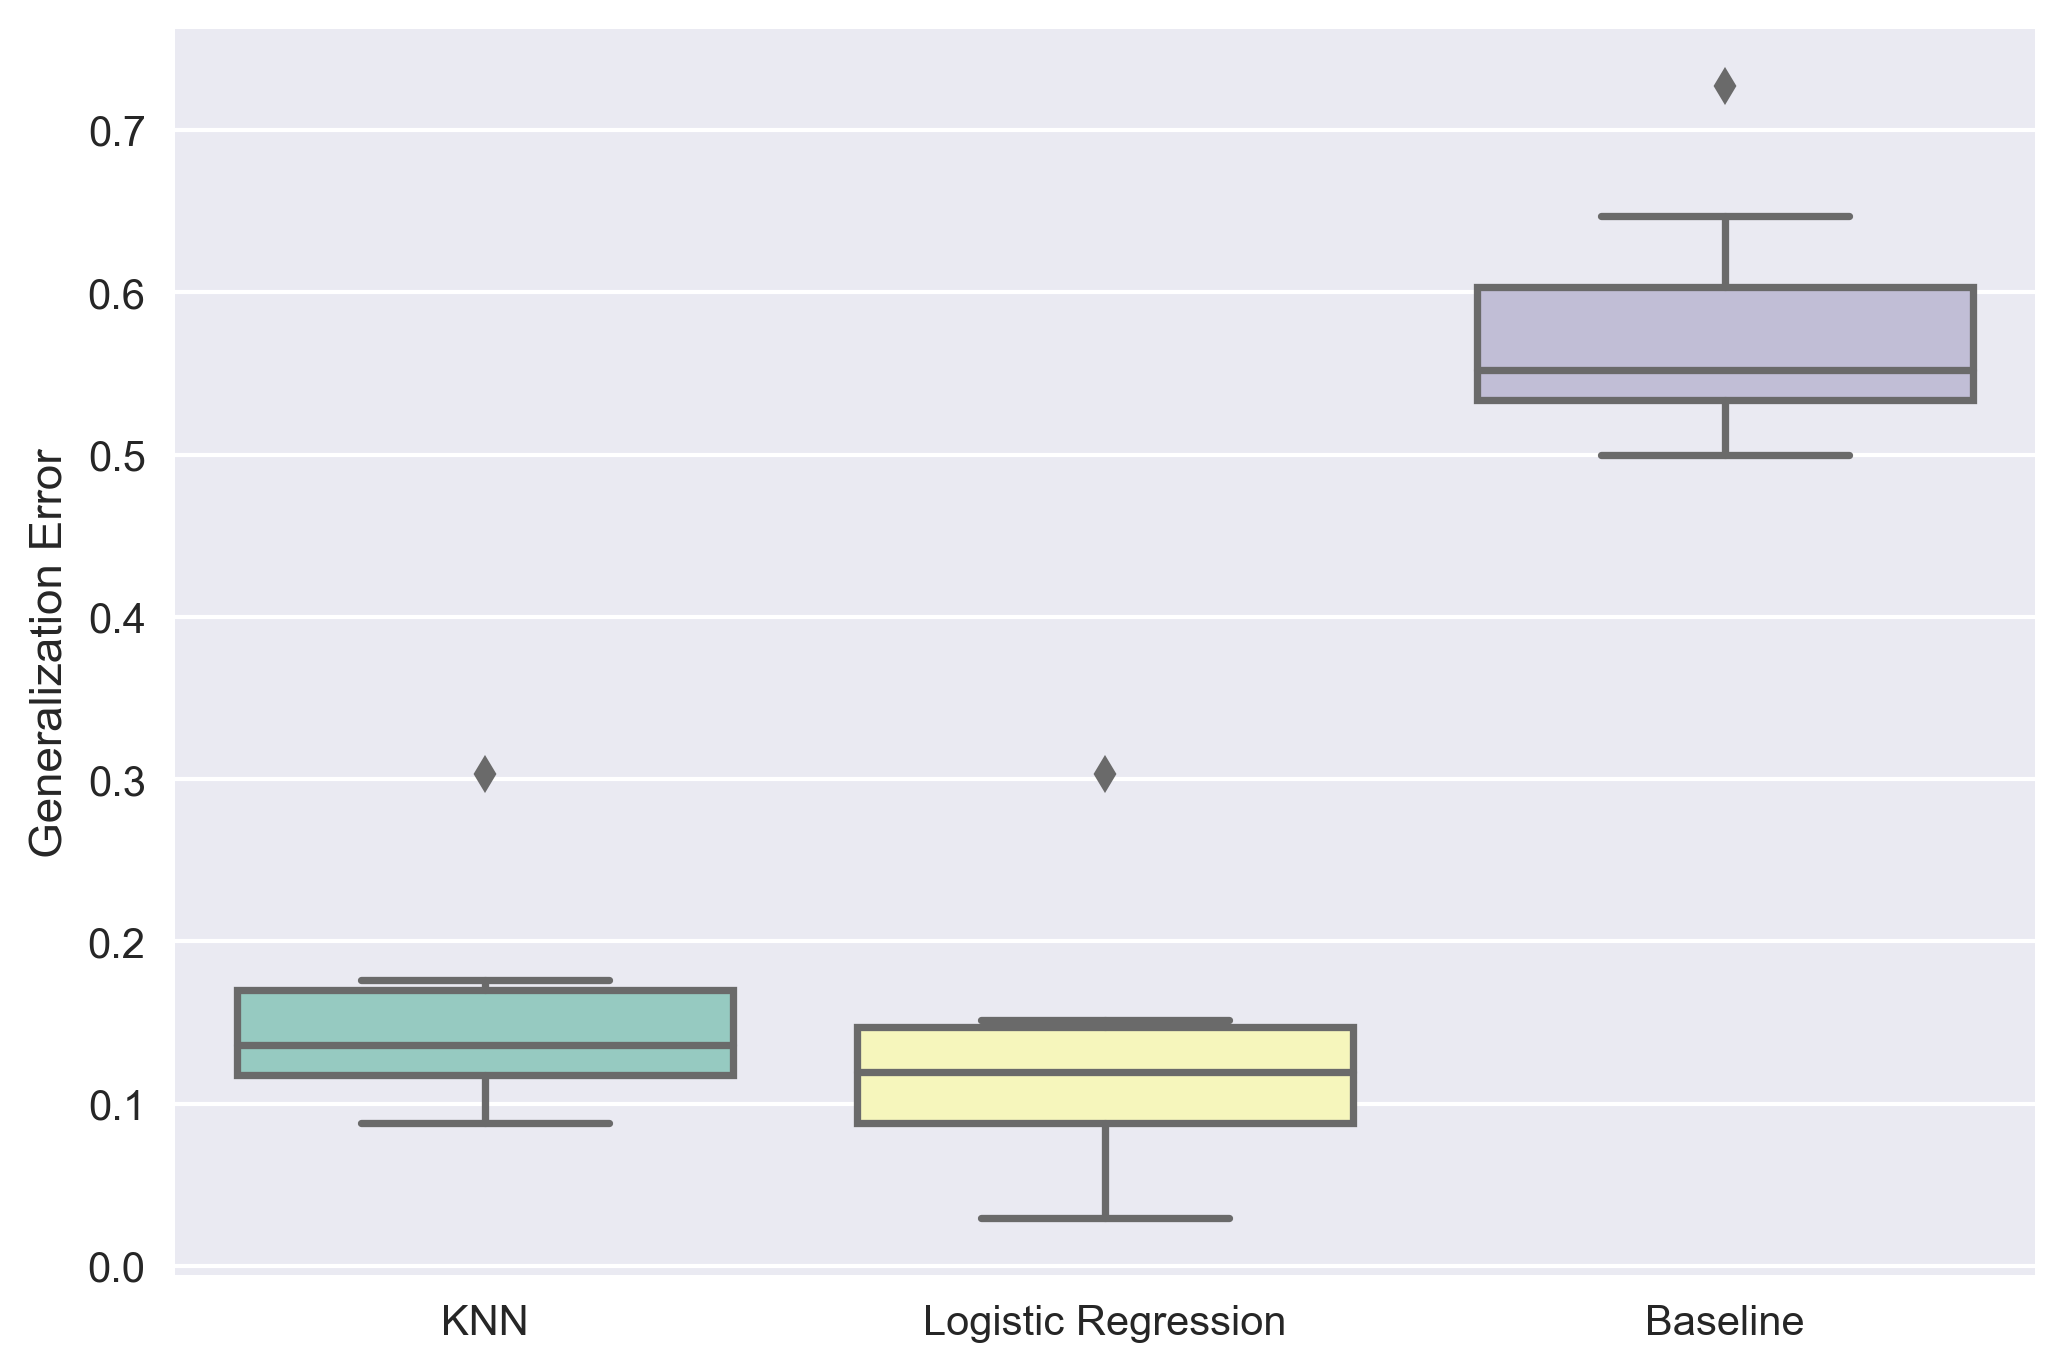
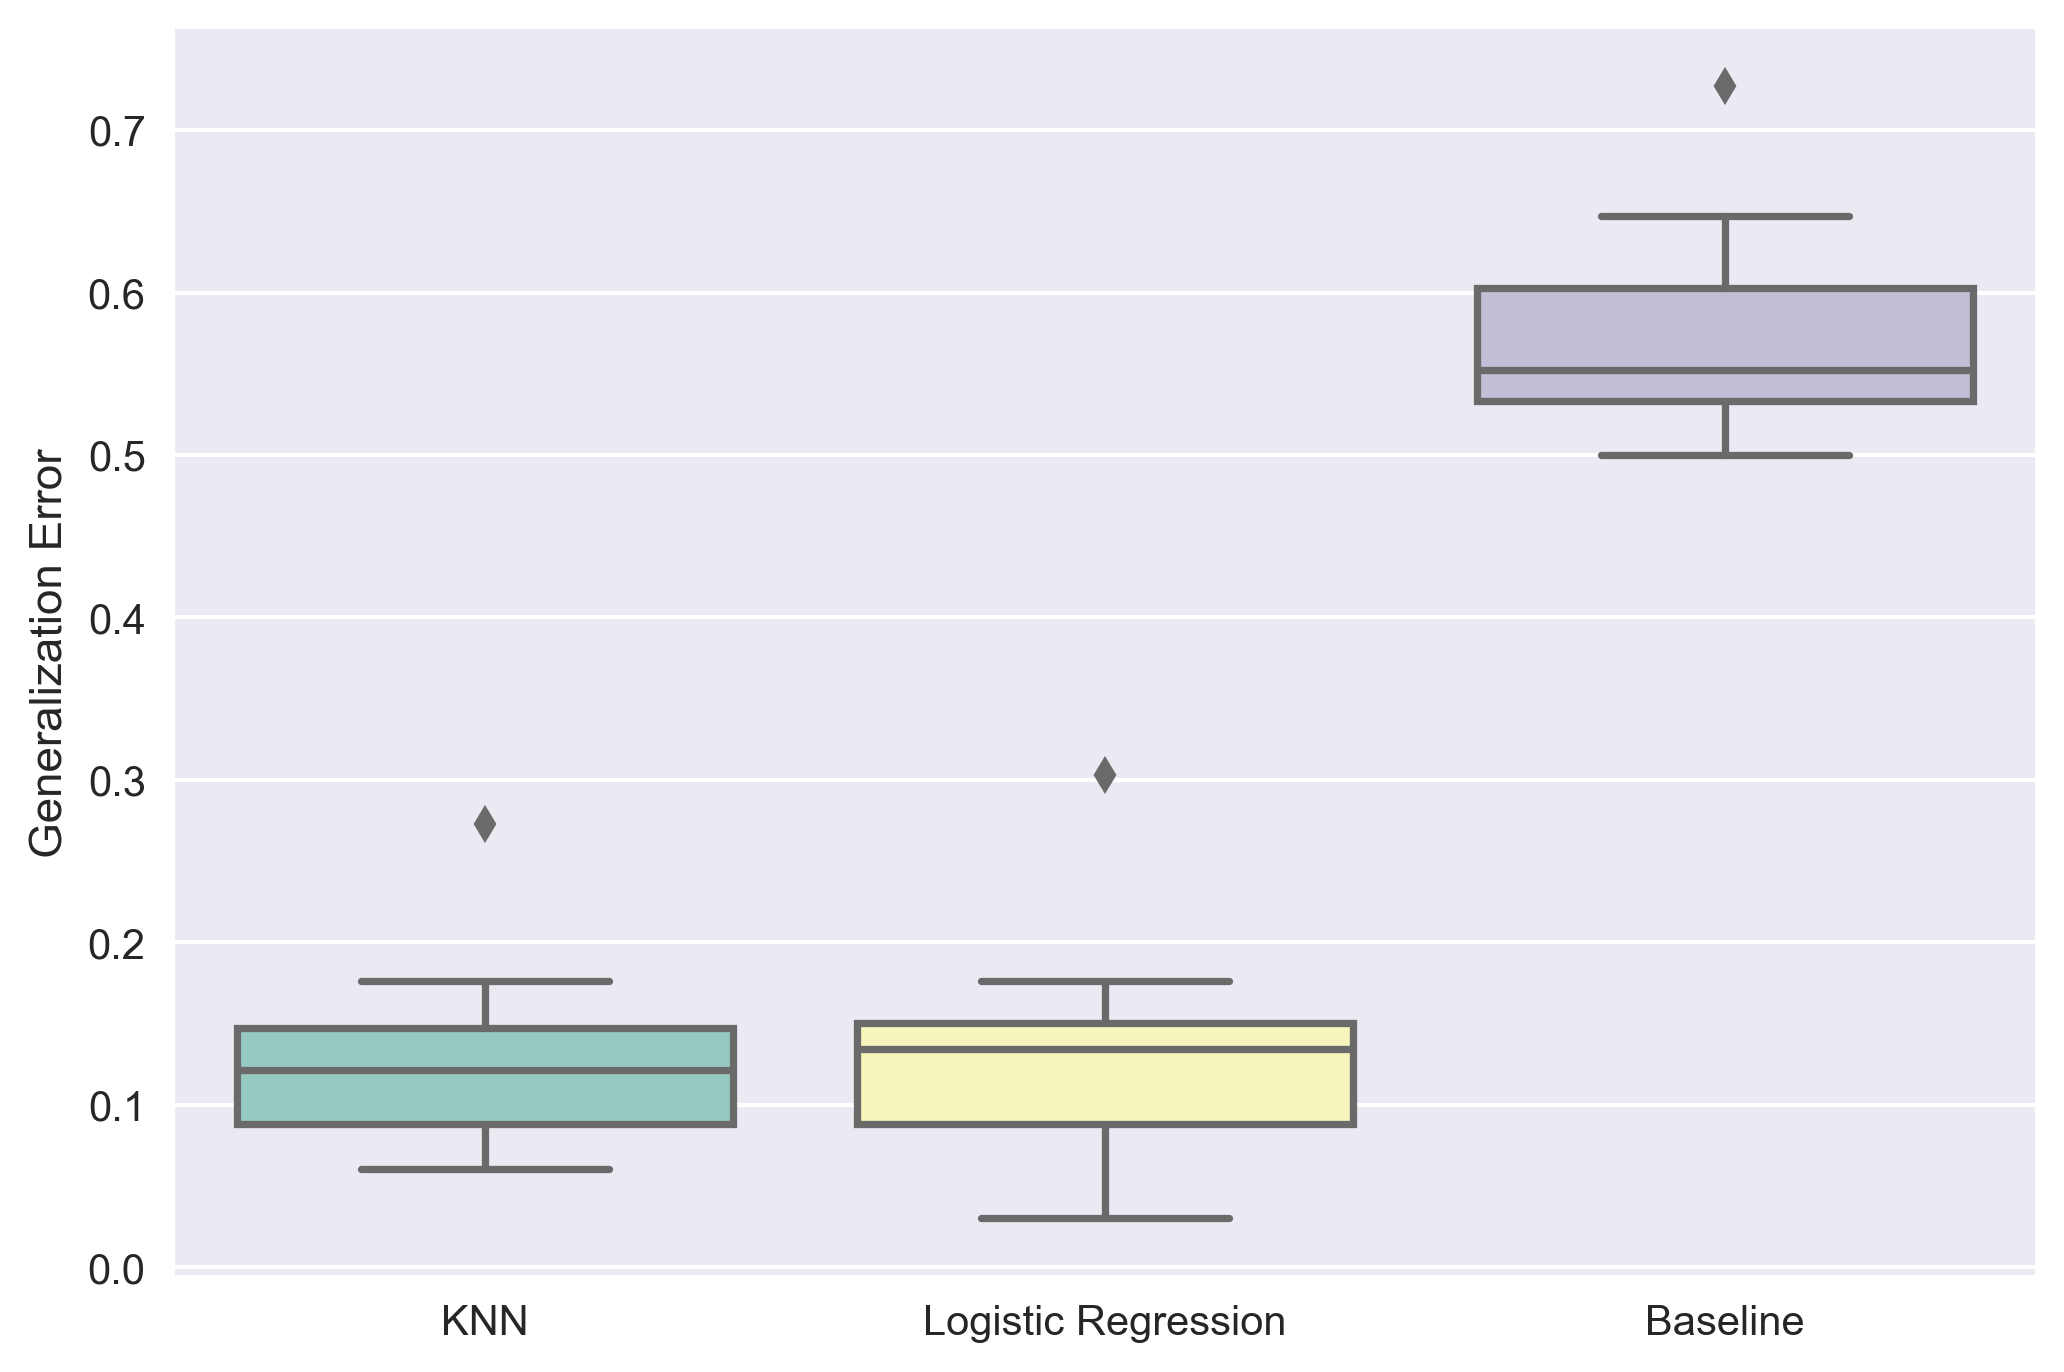
Introduced standardization

Changed region(s): [[0.093, 0.7041, 0.3721, 0.8571], [0.4031, 0.7041, 0.6512, 0.7959], [0.2171, 0.551, 0.2481, 0.6122]]

diff --git a/Project 2/classification_question_5.py b/Project 2/classification_question_5.py
@@ -4,23 +4,30 @@ from scipy.io import loadmat
 from sklearn.neighbors import KNeighborsClassifier
 from sklearn import model_selection
 from sklearn.linear_model import LogisticRegression
+from sklearn.model_selection import train_test_split
 from toolbox_02450 import mcnemar
 
 # Gets data
 from read_ecoli_data import *
 
-# Mean op optimal lambda found from last exercise
-lambda_opt = 0.06
+# Standardizes data matrix so each column has mean 0 and std 1
+X = (X - np.ones((N,1))*X.mean(0))/X.std(0)
 
+# Mean op optimal lambda found from last exercise
+lambda_opt = 1.29
+
+
+#K = 10
+#CV = model_selection.KFold(n_splits=K,shuffle=True, random_state = 1)
+#for train_index, test_index in CV.split(X):
+#    # extract training and test set for current CV fold
+#    X_train = X[train_index,:]
+#    y_train = y[train_index]
+#    X_test = X[test_index,:]
+#    y_test = y[test_index]
 
 K = 10
-CV = model_selection.KFold(n_splits=K,shuffle=True, random_state = 1)
-for train_index, test_index in CV.split(X):
-    # extract training and test set for current CV fold
-    X_train = X[train_index,:]
-    y_train = y[train_index]
-    X_test = X[test_index,:]
-    y_test = y[test_index]
+X_train, X_test, y_train, y_test = train_test_split(X, y, random_state = 1)
 
 
 
@@ -39,32 +46,30 @@ for i in range(len(classNames)):
 
 #%%
 # Select test value
-s = 18
-val = X_test[s:s+1,:]
-x = X_test[s,:]
 
+#index = 5
 
-a = logreg.coef_ @ x
-b = y_test[s]
+#x = X_test[index,:]
+x = X_test
 
-# Apply softmax
-c = np.exp(a)/np.sum(np.exp(a))
+# Weights
+w = logreg.coef_
 
-for i in range(len(classNames)):
-    print(np.round(c[i],2))
-print('Guess: ',np.argmax(c))  
-print('Predicted: ', logreg.predict(val))
-print('Real: ', b)  
-    
-scores = np.zeros(8) 
-for i in range(len(classNames)):
-    w  = logreg.coef_[i,:]
-    a = w.dot(x)
-    scores[i] = a
-#    c = np.exp(a)/np.sum(np.exp(a))
-#    print(np.max(c))
-#scores -= np.max(scores)
-print('Guess: ',np.argmax(np.exp(scores)/np.sum(np.exp(scores))))
+# multiply x with weights
+temp = logreg.coef_ @ x.T
 
+# Compute the softmax
+e = np.exp(temp)
+theta = e / np.sum(e,0) # 
+
+# Make prediction
+myGuess = np.argmax(theta,0)
+
+#prediction = logreg.predict(x.reshape(1,-1))[0]
+prediction = logreg.predict(x)
+
+real_value = y_test[:]
+
+print('My guess: ',myGuess,'\nPrediction: ',prediction,'\nreal value: ',real_value)
 
 

diff --git a/Project 2/classification.py b/Project 2/classification.py
@@ -12,11 +12,14 @@ import seaborn as sns
 # Gets data
 from read_ecoli_data import *
 
+# Standardizes data matrix so each column has mean 0 and std 1
+X = (X - np.ones((N,1))*X.mean(0))/X.std(0)
+
 # Set cross-validation parameters
 K1 = 10
 K2 = K1
 CV = model_selection.KFold(n_splits=K1,shuffle=True, random_state = 1)
-CV2 = model_selection.KFold(n_splits=K2,shuffle=True, random_state =1)
+CV2 = model_selection.KFold(n_splits=K2,shuffle=True, random_state = 1)
 
 
 # Initialize error and complexity control - LOGREG

diff --git a/Project 2/Irrevant_Files/classification_logistic_regression.py b/Project 2/Irrevant_Files/classification_logistic_regression.py
@@ -16,6 +16,9 @@ from sklearn import model_selection
 # Gets data
 from read_ecoli_data import *
 
+# Standardizes data matrix so each column has mean 0 and std 1
+X = (X - np.ones((N,1))*X.mean(0))/X.std(0)
+
 
 # Initialize training parameters
 lambda_interval = np.logspace(-8, 2, 50)
